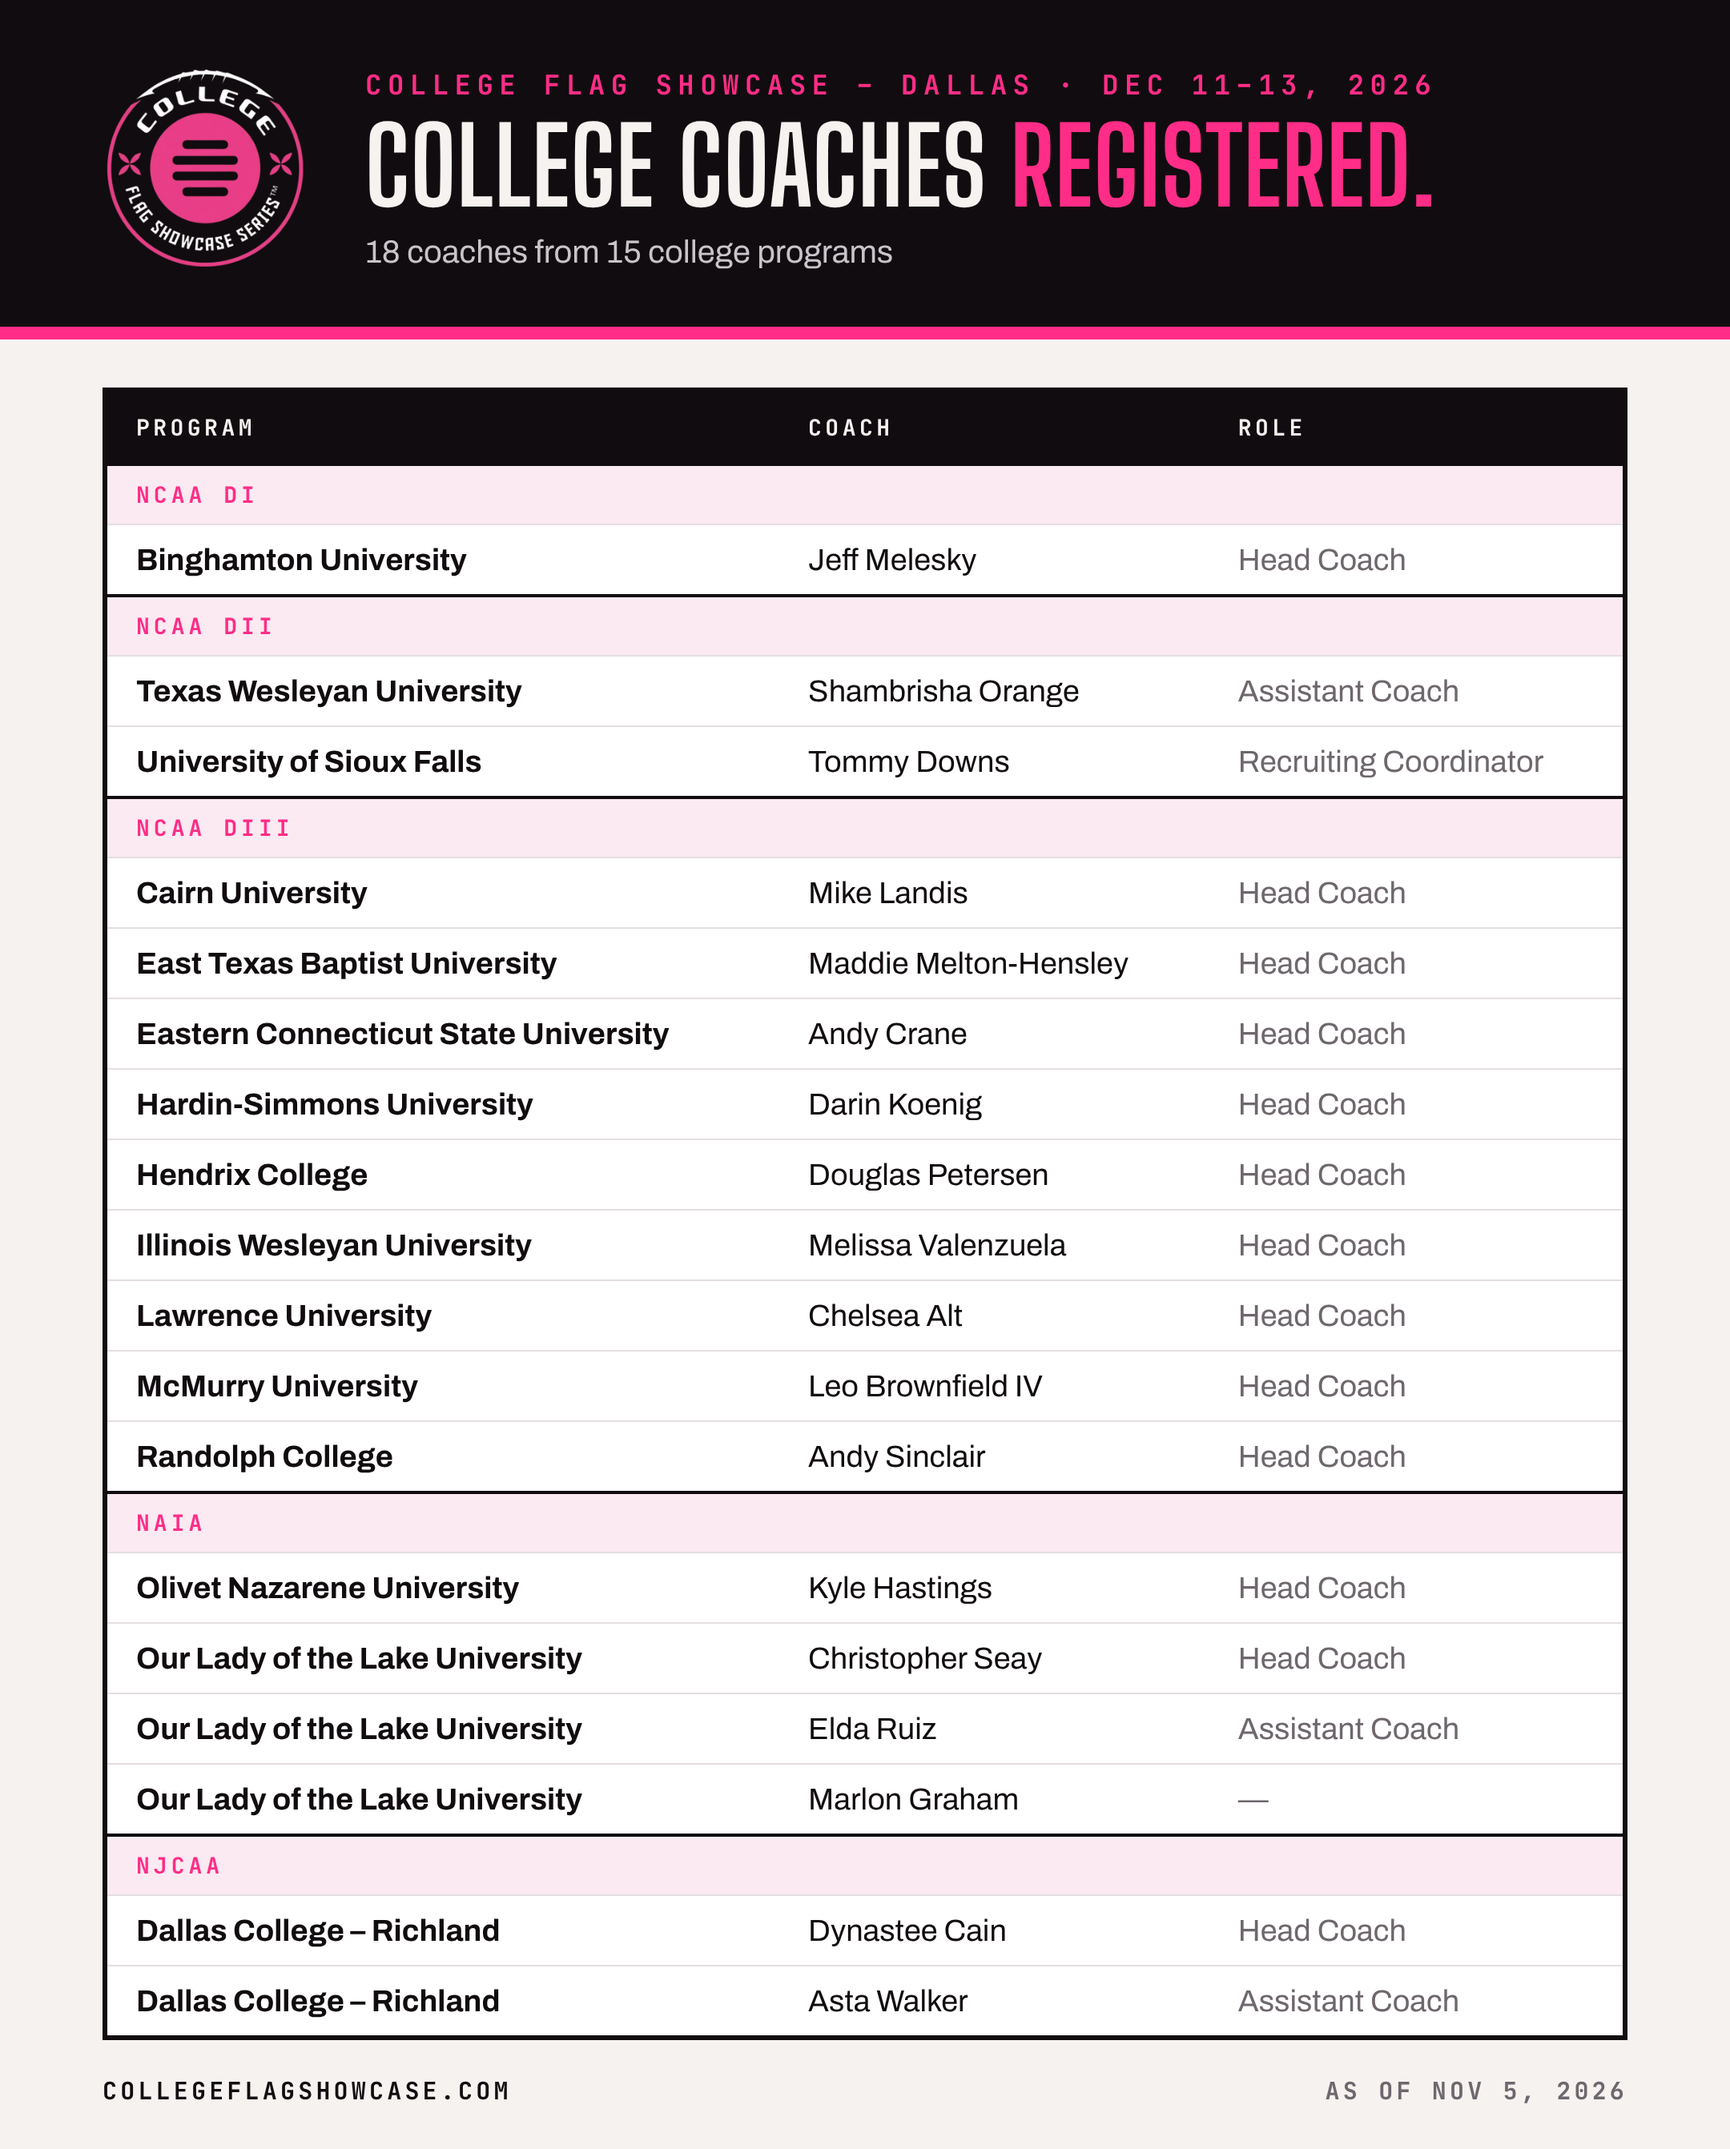
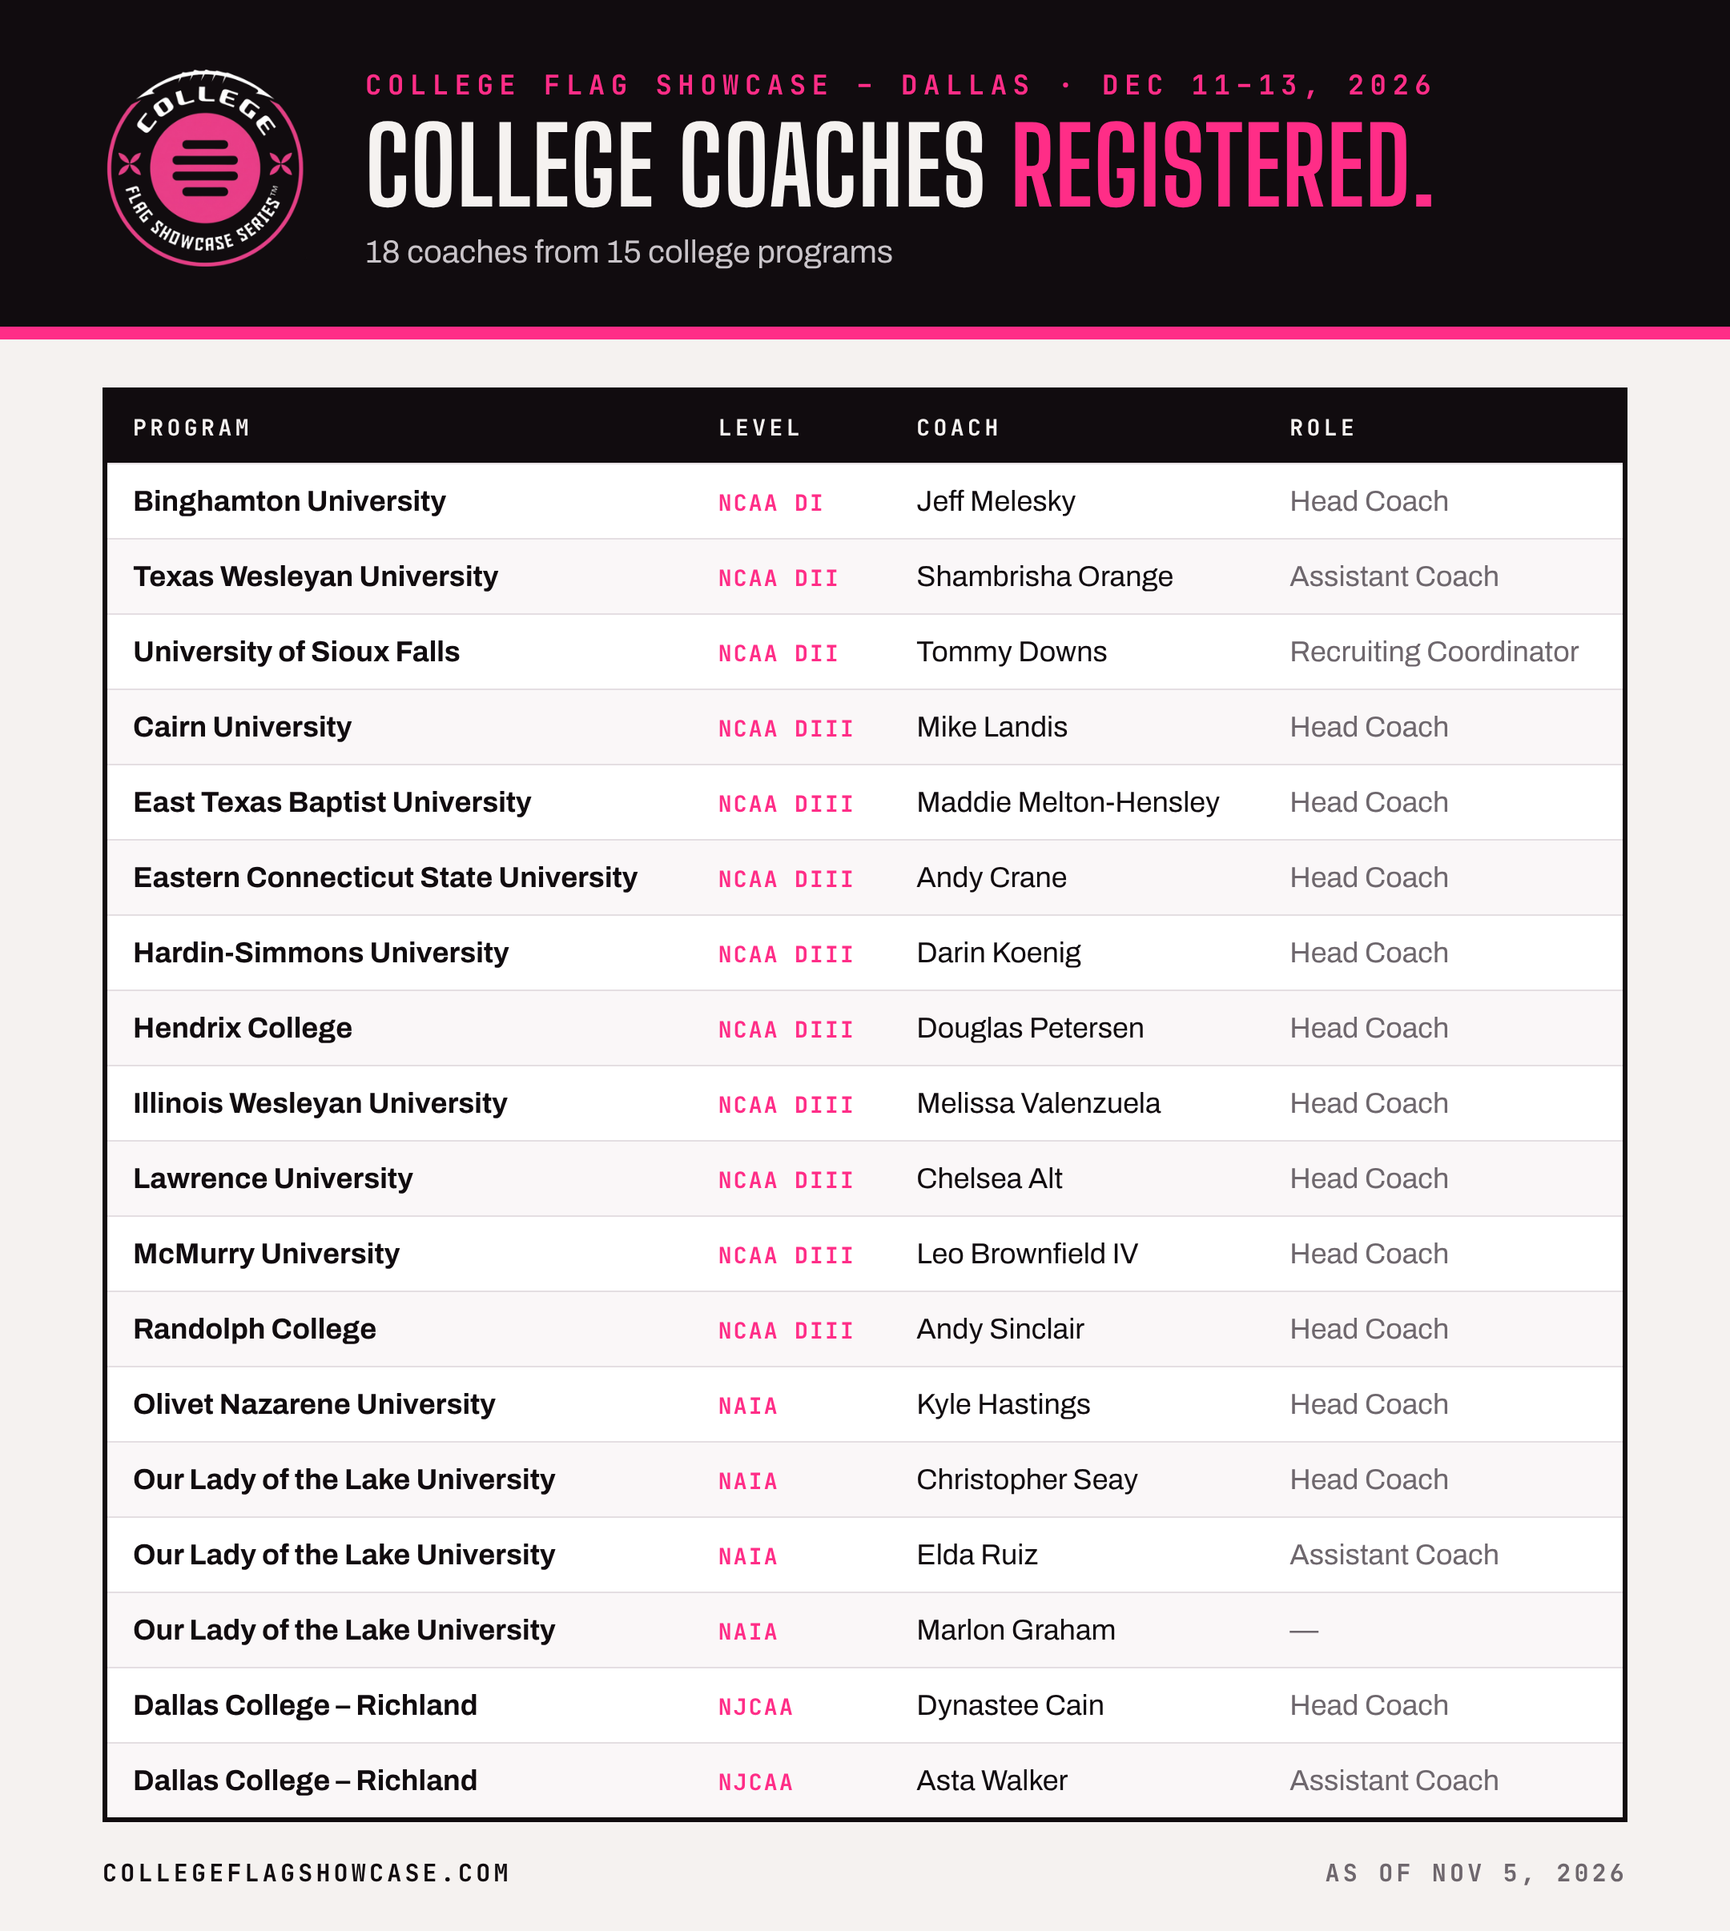
Coaches table: level as a column instead of group rows
Claude-Session: https://claude.ai/code/session_019V32boShoBmRrwWenCPJFc

Changed region(s): [[0.0, 0.0311, 1.0, 0.995]]

diff --git a/collateral/coaches-registered-dallas.html b/collateral/coaches-registered-dallas.html
@@ -33,7 +33,10 @@
   td{padding:11px 18px;font-size:19px;border-top:1px solid var(--line);vertical-align:top}
   td.prog{font-weight:700}
   td.role{color:var(--steel)}
-  tr.lvl td{background:#FBEAF2;font-family:var(--mono);font-size:14px;font-weight:700;letter-spacing:.18em;text-transform:uppercase;color:var(--red);padding:9px 18px;border-top:2px solid var(--navy)}
+  td{font-size:18px;padding:13px 16px}
+  th{padding:13px 16px}
+  td.lvlc{font-family:var(--mono);font-size:14px;font-weight:700;letter-spacing:.08em;color:var(--red);white-space:nowrap;padding-top:15px}
+  tbody tr:nth-child(even) td{background:#FAF7F8}
   .foot{display:flex;justify-content:space-between;align-items:center;margin-top:22px;font-family:var(--mono);font-size:15px;font-weight:700;letter-spacing:.14em;text-transform:uppercase}
   .foot .asof{color:var(--steel)}
 </style>
@@ -49,31 +52,26 @@
   </div>
   <div class="body">
     <table>
-      <thead><tr><th>Program</th><th>Coach</th><th>Role</th></tr></thead>
+      <thead><tr><th>Program</th><th>Level</th><th>Coach</th><th>Role</th></tr></thead>
       <tbody>
-        <tr class="lvl"><td colspan="3">NCAA DI</td></tr>
-        <tr><td class="prog">Binghamton University</td><td>Jeff Melesky</td><td class="role">Head Coach</td></tr>
-        <tr class="lvl"><td colspan="3">NCAA DII</td></tr>
-        <tr><td class="prog">Texas Wesleyan University</td><td>Shambrisha Orange</td><td class="role">Assistant Coach</td></tr>
-        <tr><td class="prog">University of Sioux Falls</td><td>Tommy Downs</td><td class="role">Recruiting Coordinator</td></tr>
-        <tr class="lvl"><td colspan="3">NCAA DIII</td></tr>
-        <tr><td class="prog">Cairn University</td><td>Mike Landis</td><td class="role">Head Coach</td></tr>
-        <tr><td class="prog">East Texas Baptist University</td><td>Maddie Melton-Hensley</td><td class="role">Head Coach</td></tr>
-        <tr><td class="prog">Eastern Connecticut State University</td><td>Andy Crane</td><td class="role">Head Coach</td></tr>
-        <tr><td class="prog">Hardin-Simmons University</td><td>Darin Koenig</td><td class="role">Head Coach</td></tr>
-        <tr><td class="prog">Hendrix College</td><td>Douglas Petersen</td><td class="role">Head Coach</td></tr>
-        <tr><td class="prog">Illinois Wesleyan University</td><td>Melissa Valenzuela</td><td class="role">Head Coach</td></tr>
-        <tr><td class="prog">Lawrence University</td><td>Chelsea Alt</td><td class="role">Head Coach</td></tr>
-        <tr><td class="prog">McMurry University</td><td>Leo Brownfield IV</td><td class="role">Head Coach</td></tr>
-        <tr><td class="prog">Randolph College</td><td>Andy Sinclair</td><td class="role">Head Coach</td></tr>
-        <tr class="lvl"><td colspan="3">NAIA</td></tr>
-        <tr><td class="prog">Olivet Nazarene University</td><td>Kyle Hastings</td><td class="role">Head Coach</td></tr>
-        <tr><td class="prog">Our Lady of the Lake University</td><td>Christopher Seay</td><td class="role">Head Coach</td></tr>
-        <tr><td class="prog">Our Lady of the Lake University</td><td>Elda Ruiz</td><td class="role">Assistant Coach</td></tr>
-        <tr><td class="prog">Our Lady of the Lake University</td><td>Marlon Graham</td><td class="role">&mdash;</td></tr>
-        <tr class="lvl"><td colspan="3">NJCAA</td></tr>
-        <tr><td class="prog">Dallas College &ndash; Richland</td><td>Dynastee Cain</td><td class="role">Head Coach</td></tr>
-        <tr><td class="prog">Dallas College &ndash; Richland</td><td>Asta Walker</td><td class="role">Assistant Coach</td></tr>
+        <tr><td class="prog">Binghamton University</td><td class="lvlc">NCAA DI</td><td>Jeff Melesky</td><td class="role">Head Coach</td></tr>
+        <tr><td class="prog">Texas Wesleyan University</td><td class="lvlc">NCAA DII</td><td>Shambrisha Orange</td><td class="role">Assistant Coach</td></tr>
+        <tr><td class="prog">University of Sioux Falls</td><td class="lvlc">NCAA DII</td><td>Tommy Downs</td><td class="role">Recruiting Coordinator</td></tr>
+        <tr><td class="prog">Cairn University</td><td class="lvlc">NCAA DIII</td><td>Mike Landis</td><td class="role">Head Coach</td></tr>
+        <tr><td class="prog">East Texas Baptist University</td><td class="lvlc">NCAA DIII</td><td>Maddie Melton-Hensley</td><td class="role">Head Coach</td></tr>
+        <tr><td class="prog">Eastern Connecticut State University</td><td class="lvlc">NCAA DIII</td><td>Andy Crane</td><td class="role">Head Coach</td></tr>
+        <tr><td class="prog">Hardin-Simmons University</td><td class="lvlc">NCAA DIII</td><td>Darin Koenig</td><td class="role">Head Coach</td></tr>
+        <tr><td class="prog">Hendrix College</td><td class="lvlc">NCAA DIII</td><td>Douglas Petersen</td><td class="role">Head Coach</td></tr>
+        <tr><td class="prog">Illinois Wesleyan University</td><td class="lvlc">NCAA DIII</td><td>Melissa Valenzuela</td><td class="role">Head Coach</td></tr>
+        <tr><td class="prog">Lawrence University</td><td class="lvlc">NCAA DIII</td><td>Chelsea Alt</td><td class="role">Head Coach</td></tr>
+        <tr><td class="prog">McMurry University</td><td class="lvlc">NCAA DIII</td><td>Leo Brownfield IV</td><td class="role">Head Coach</td></tr>
+        <tr><td class="prog">Randolph College</td><td class="lvlc">NCAA DIII</td><td>Andy Sinclair</td><td class="role">Head Coach</td></tr>
+        <tr><td class="prog">Olivet Nazarene University</td><td class="lvlc">NAIA</td><td>Kyle Hastings</td><td class="role">Head Coach</td></tr>
+        <tr><td class="prog">Our Lady of the Lake University</td><td class="lvlc">NAIA</td><td>Christopher Seay</td><td class="role">Head Coach</td></tr>
+        <tr><td class="prog">Our Lady of the Lake University</td><td class="lvlc">NAIA</td><td>Elda Ruiz</td><td class="role">Assistant Coach</td></tr>
+        <tr><td class="prog">Our Lady of the Lake University</td><td class="lvlc">NAIA</td><td>Marlon Graham</td><td class="role">&mdash;</td></tr>
+        <tr><td class="prog">Dallas College &ndash; Richland</td><td class="lvlc">NJCAA</td><td>Dynastee Cain</td><td class="role">Head Coach</td></tr>
+        <tr><td class="prog">Dallas College &ndash; Richland</td><td class="lvlc">NJCAA</td><td>Asta Walker</td><td class="role">Assistant Coach</td></tr>
       </tbody>
     </table>
     <div class="foot"><span>collegeflagshowcase.com</span><span class="asof">As of Nov 5, 2026</span></div>
